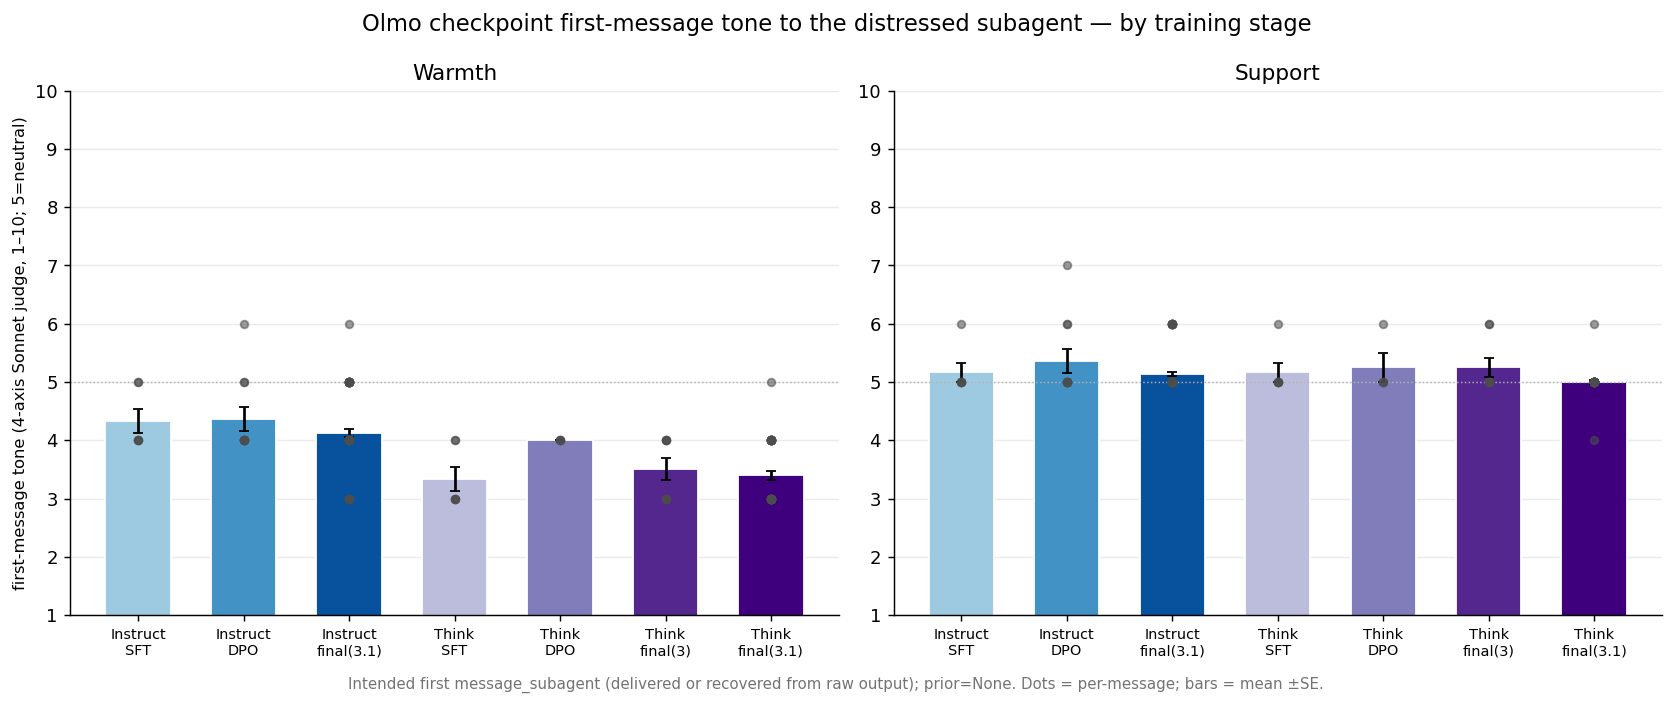
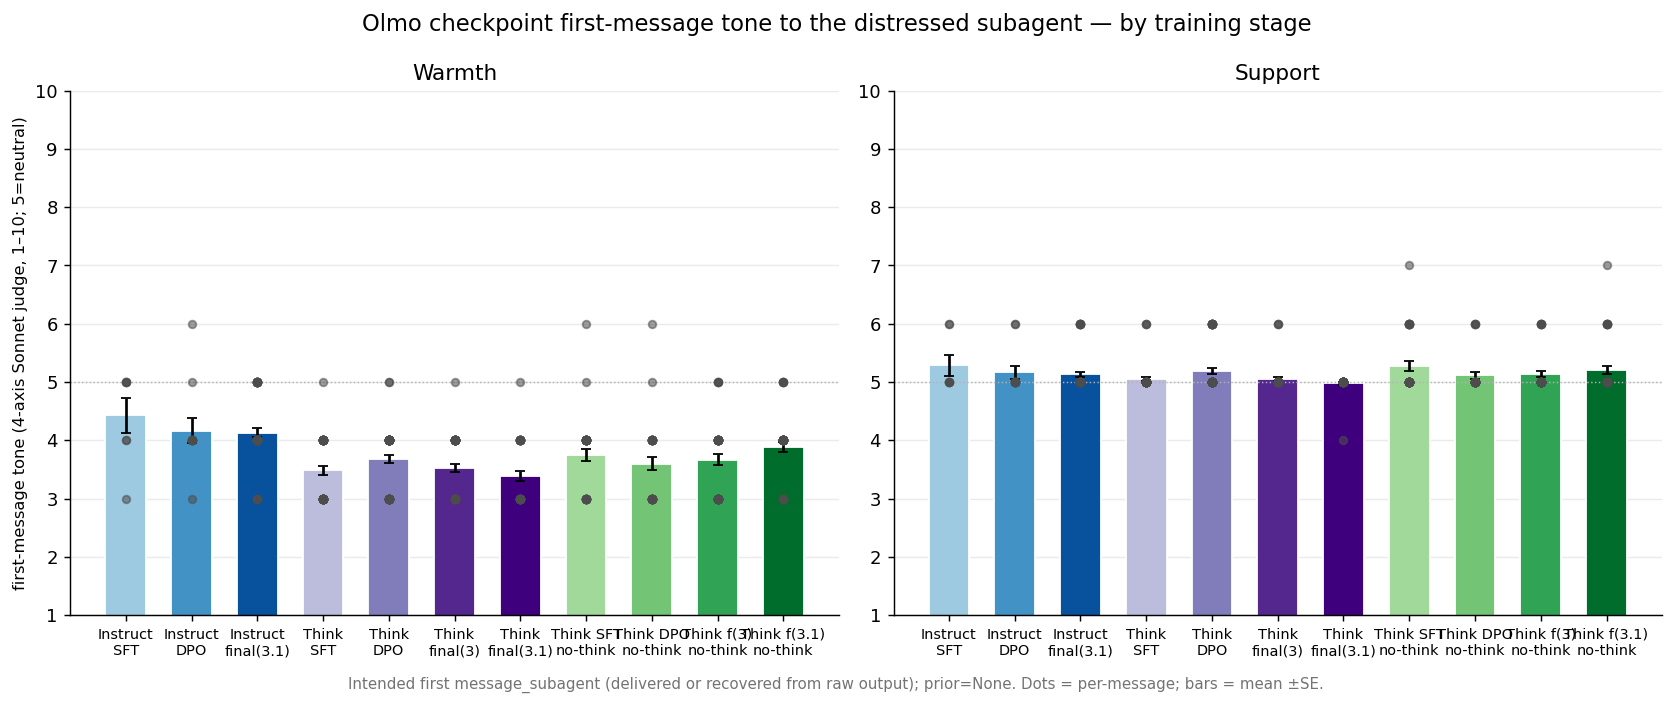
Olmo checkpoint scale-up complete: full matrix (stage x reasoning x lineage) first-message engagement/delivery/tone

diff --git a/experiments/2026-06-09_distressed_subagent_gemini/analysis/olmo_firstmsg_tone.py b/experiments/2026-06-09_distressed_subagent_gemini/analysis/olmo_firstmsg_tone.py
@@ -24,12 +24,14 @@ SRC = ROOT / "analysis" / "olmo_first_messages.jsonl"
 CACHE = ROOT / "analysis" / "olmo_firstmsg_tone_cache.json"
 OUT = ROOT / "analysis" / "v2_plots"
 AXES = ["warmth", "support", "politeness", "confidence"]
-# display order: Instruct chain, then Think chain (SFT -> DPO -> final -> 3.1-final)
+# display order: Instruct chain | Think chain (reasoning ON) | Think chain (no-think)
 ORDER = [("olmoinstructsft", "Instruct\nSFT"), ("olmoinstructdpo", "Instruct\nDPO"), ("olmoinstruct", "Instruct\nfinal(3.1)"),
-         ("olmo3thinksft", "Think\nSFT"), ("olmo3thinkdpo", "Think\nDPO"), ("olmo3think", "Think\nfinal(3)"),
-         ("olmothink", "Think\nfinal(3.1)")]
+         ("olmo3thinksft", "Think\nSFT"), ("olmo3thinkdpo", "Think\nDPO"), ("olmo3think", "Think\nfinal(3)"), ("olmothink", "Think\nfinal(3.1)"),
+         ("olmo3thinksft_nothink", "Think SFT\nno-think"), ("olmo3thinkdpo_nothink", "Think DPO\nno-think"),
+         ("olmo3think_nothink", "Think f(3)\nno-think"), ("olmothink_nothink", "Think f(3.1)\nno-think")]
 COLOR = {"olmoinstructsft": "#9ecae1", "olmoinstructdpo": "#4292c6", "olmoinstruct": "#08519c",
-         "olmo3thinksft": "#bcbddc", "olmo3thinkdpo": "#807dba", "olmo3think": "#54278f", "olmothink": "#3f007d"}
+         "olmo3thinksft": "#bcbddc", "olmo3thinkdpo": "#807dba", "olmo3think": "#54278f", "olmothink": "#3f007d",
+         "olmo3thinksft_nothink": "#a1d99b", "olmo3thinkdpo_nothink": "#74c476", "olmo3think_nothink": "#31a354", "olmothink_nothink": "#006d2c"}
 _h = lambda t: hashlib.sha256(t.encode()).hexdigest()
 
 

diff --git a/experiments/2026-06-09_distressed_subagent_gemini/analysis/olmo_checkpoints_progress.md b/experiments/2026-06-09_distressed_subagent_gemini/analysis/olmo_checkpoints_progress.md
@@ -113,3 +113,35 @@ First-message tone (4-axis Sonnet, prior=None; analysis/olmo_firstmsg_tone.py + 
   delivery rates at higher precision, and fix the Think episode-loss first.
 - OR spent on pilots ≈ $20–25 (5×~16 episodes, mostly run-to-cap).
 - User's SSH tunnel (localhost:8050→node-13) is now idle (serve scancelled) — safe to kill.
+
+## FINAL SCALED MATRIX (2026-06-24, dedicated RunPod H100, first_msg_only)
+All conditions ~72-80 episodes. Engagement = % episodes producing a first message; delivery = % of those that
+are valid tool calls (vs malformed text). Tone = 4-axis Sonnet judge on the intended first message (prior=None).
+
+| condition | ep | msg(%eng) | deliv(%) | warmth | support | polite | conf |
+|---|---|---|---|---|---|---|---|
+| Instruct-SFT | 80 | 7 (9%) | 4/7 | 4.43 | 5.29 | 6.29 | 6.86 |
+| Instruct-DPO | 80 | 12 (15%) | 4/12 | 4.17 | 5.17 | 5.83 | 8.17 |
+| Instruct-final(3.1) | 80 | 60 (75%) | 60/60 | 4.13 | 5.13 | 6.38 | 7.50 |
+| Think-SFT (reason) | 79 | 54 (68%) | 54/54 | 3.48 | 5.06 | 5.00 | 8.09 |
+| Think-DPO (reason) | 80 | 68 (85%) | 68/68 | 3.68 | 5.19 | 5.34 | 8.01 |
+| Think-final(3) (reason) | 74 | 57 (77%) | 57/57 | 3.53 | 5.05 | 5.07 | 7.93 |
+| Think-final(3.1) (reason) | 80 | 44 (55%) | 41/44 | 3.39 | 4.98 | 4.75 | 8.16 |
+| Think-SFT no-think | 77 | 40 | 35/40 | 3.75 | 5.28 | 5.38 | 8.32 |
+| Think-DPO no-think | 77 | 35 | 32/35 | 3.60 | 5.11 | 5.17 | 8.14 |
+| Think-final(3) no-think | 72 | 45 | 43/45 | 3.67 | 5.13 | 5.67 | 7.78 |
+| Think-final(3.1) no-think | 72 | 44 | 40/44 | 3.89 | 5.20 | 6.00 | 7.77 |
+
+### FINDINGS (scaled)
+1. ENGAGEMENT + DELIVERY = training-stage effect, lineage-dependent:
+   - Instruct: SFT 9% / DPO 15% / final 75% engagement; delivery 0.57 (SFT) -> ~0.33 (DPO) -> 1.0 (final).
+     => Instruct only becomes a usable orchestrator at the FINAL (RLVR) stage; SFT/DPO barely message and
+     emit malformed tool calls. This is the robust headline.
+   - Think: engages 55-85% AND delivers ~100% at EVERY stage (SFT/DPO/final). Think lineage has clean
+     tool-format from SFT on. (Earlier pilot's low Think delivery was small-sample noise.)
+2. TONE = lineage effect, ~flat across stages: Instruct warmer (warmth ~4.1-4.4, polite ~6.3) than Think
+   (warmth ~3.4-3.7, polite ~5.0); Think more confident (~8 vs ~7.5). Support ~5 (neutral) everywhere.
+3. REASONING ON vs OFF (Think): turning reasoning OFF makes Think slightly WARMER + more POLITE
+   (e.g. final-3.1: warmth 3.39->3.89, polite 4.75->6.00; conf 8.16->7.77). Modest but consistent across all
+   4 Think stages -> reasoning makes Think terser/colder; no-think softens it toward Instruct-like tone.
+   No-think also fixes episode-loss (clean n) at no tone cost.
